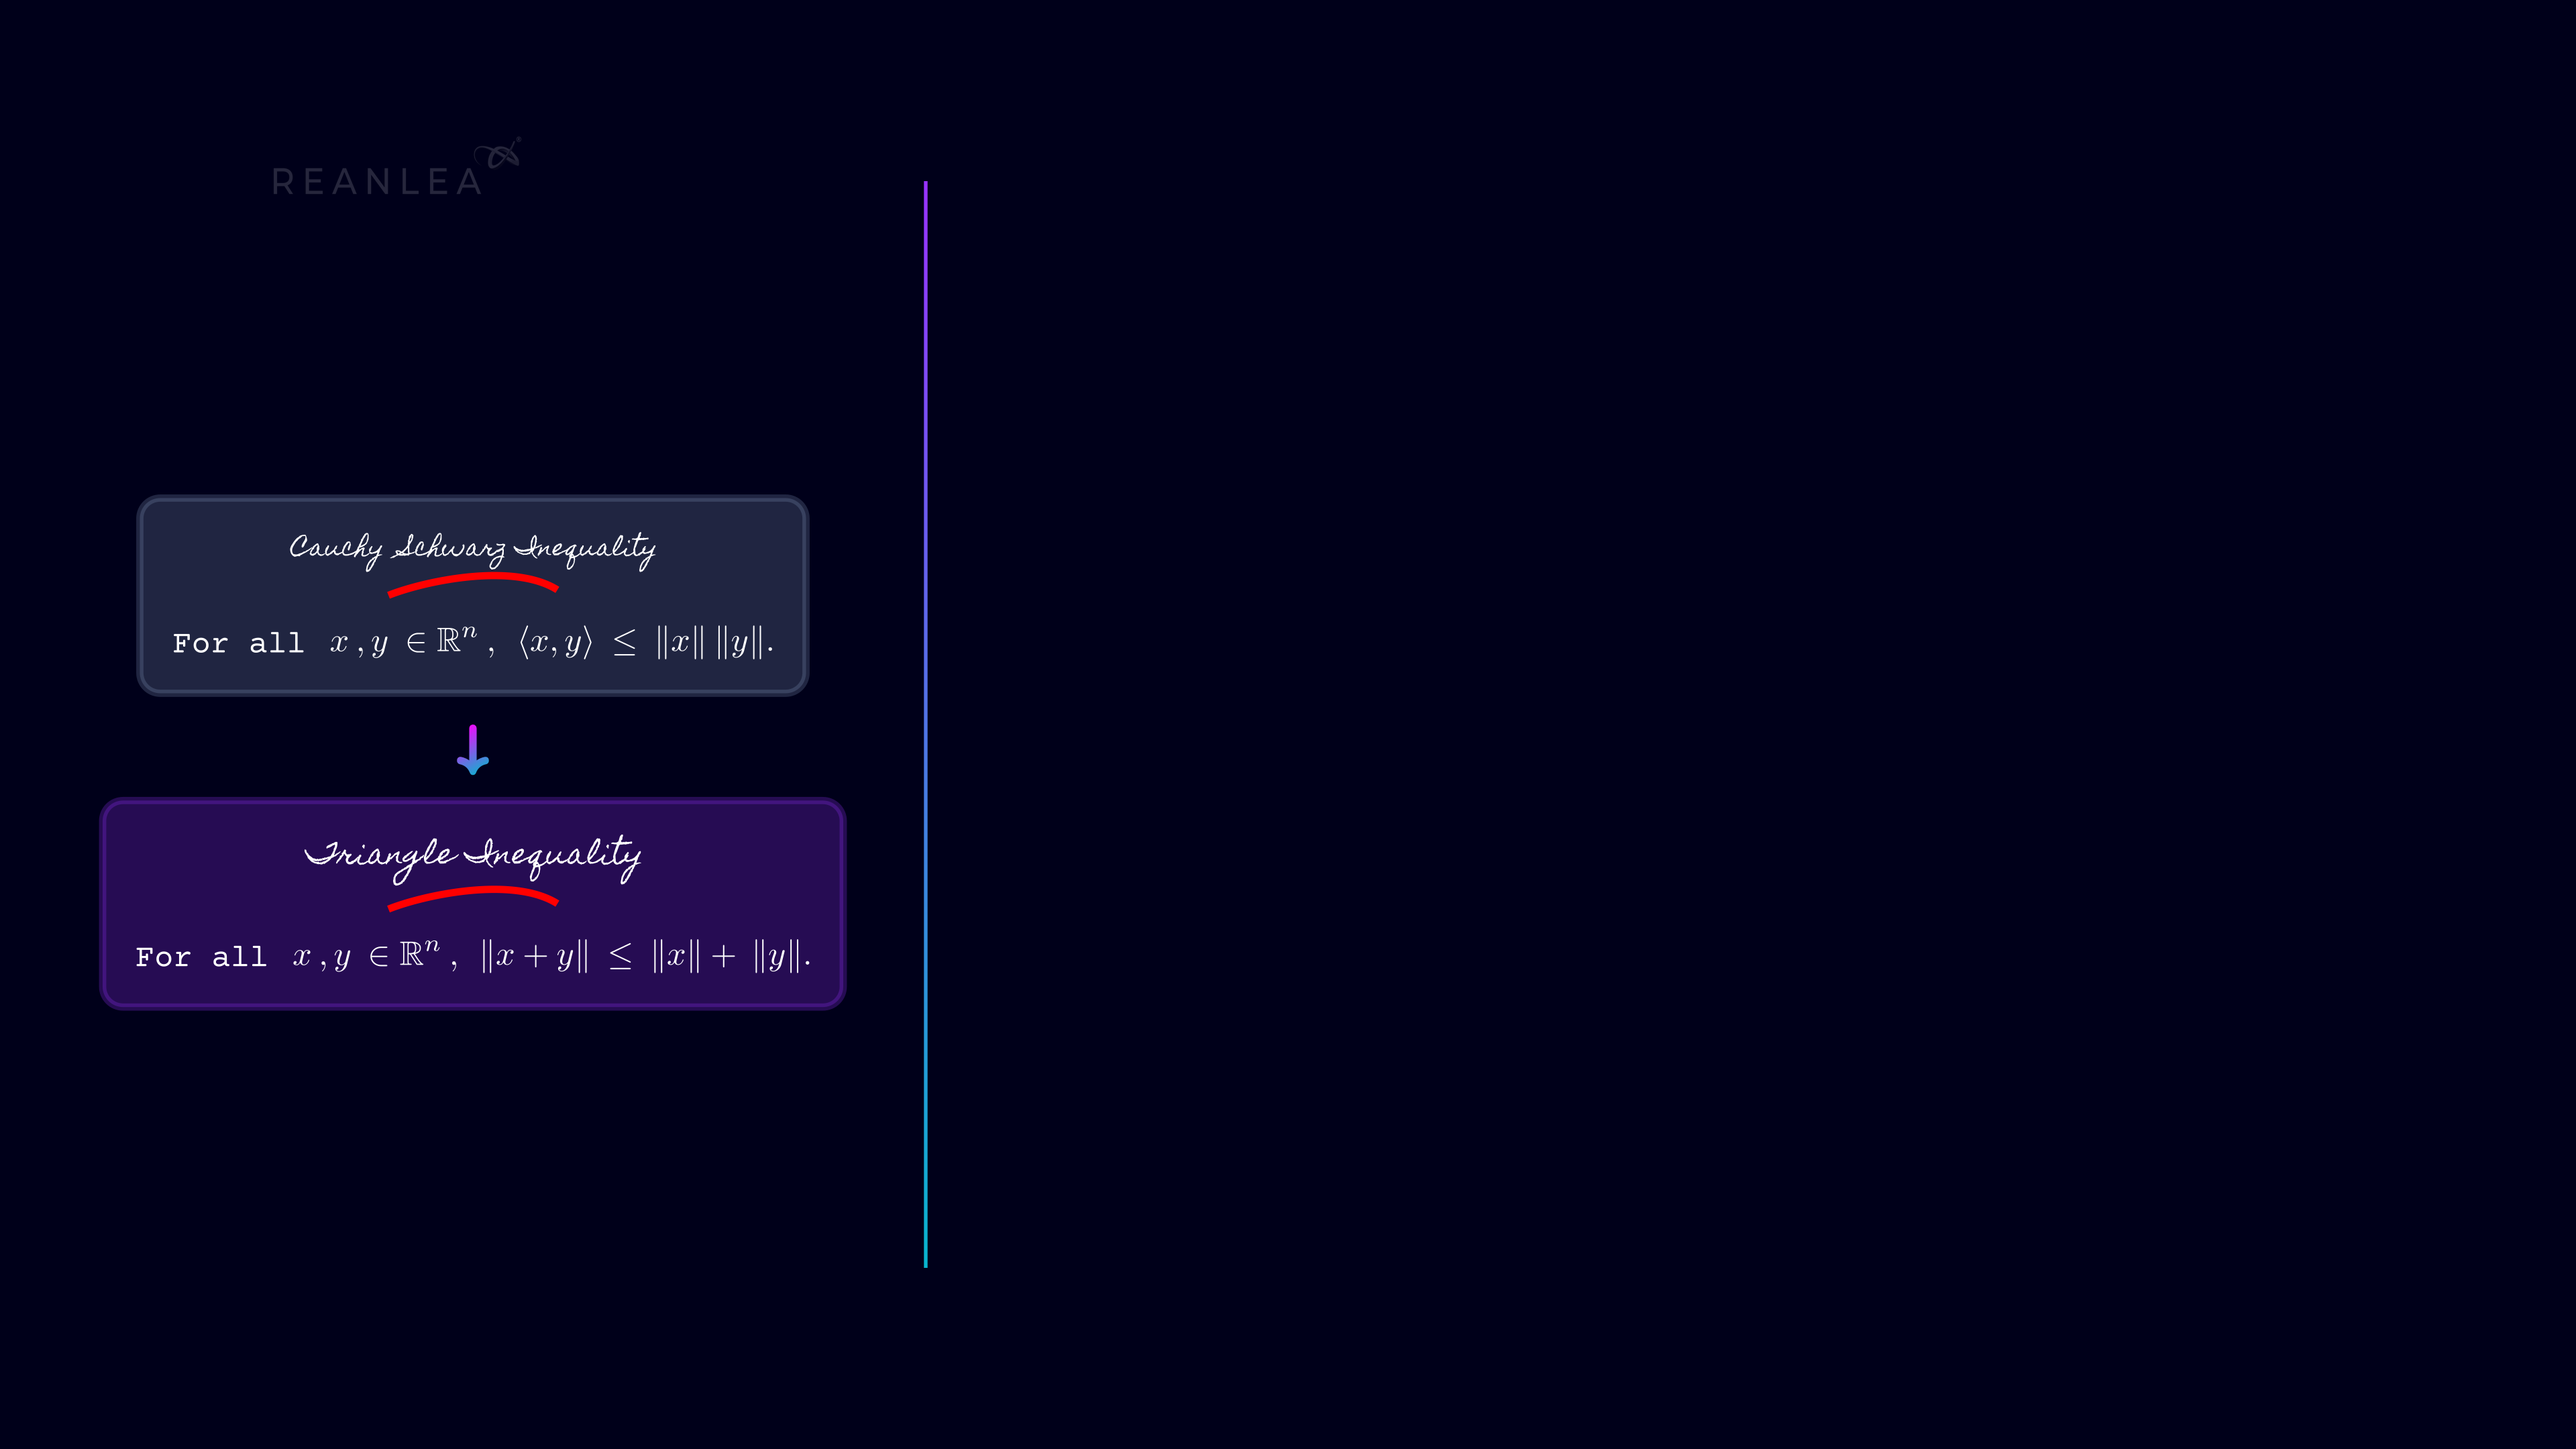
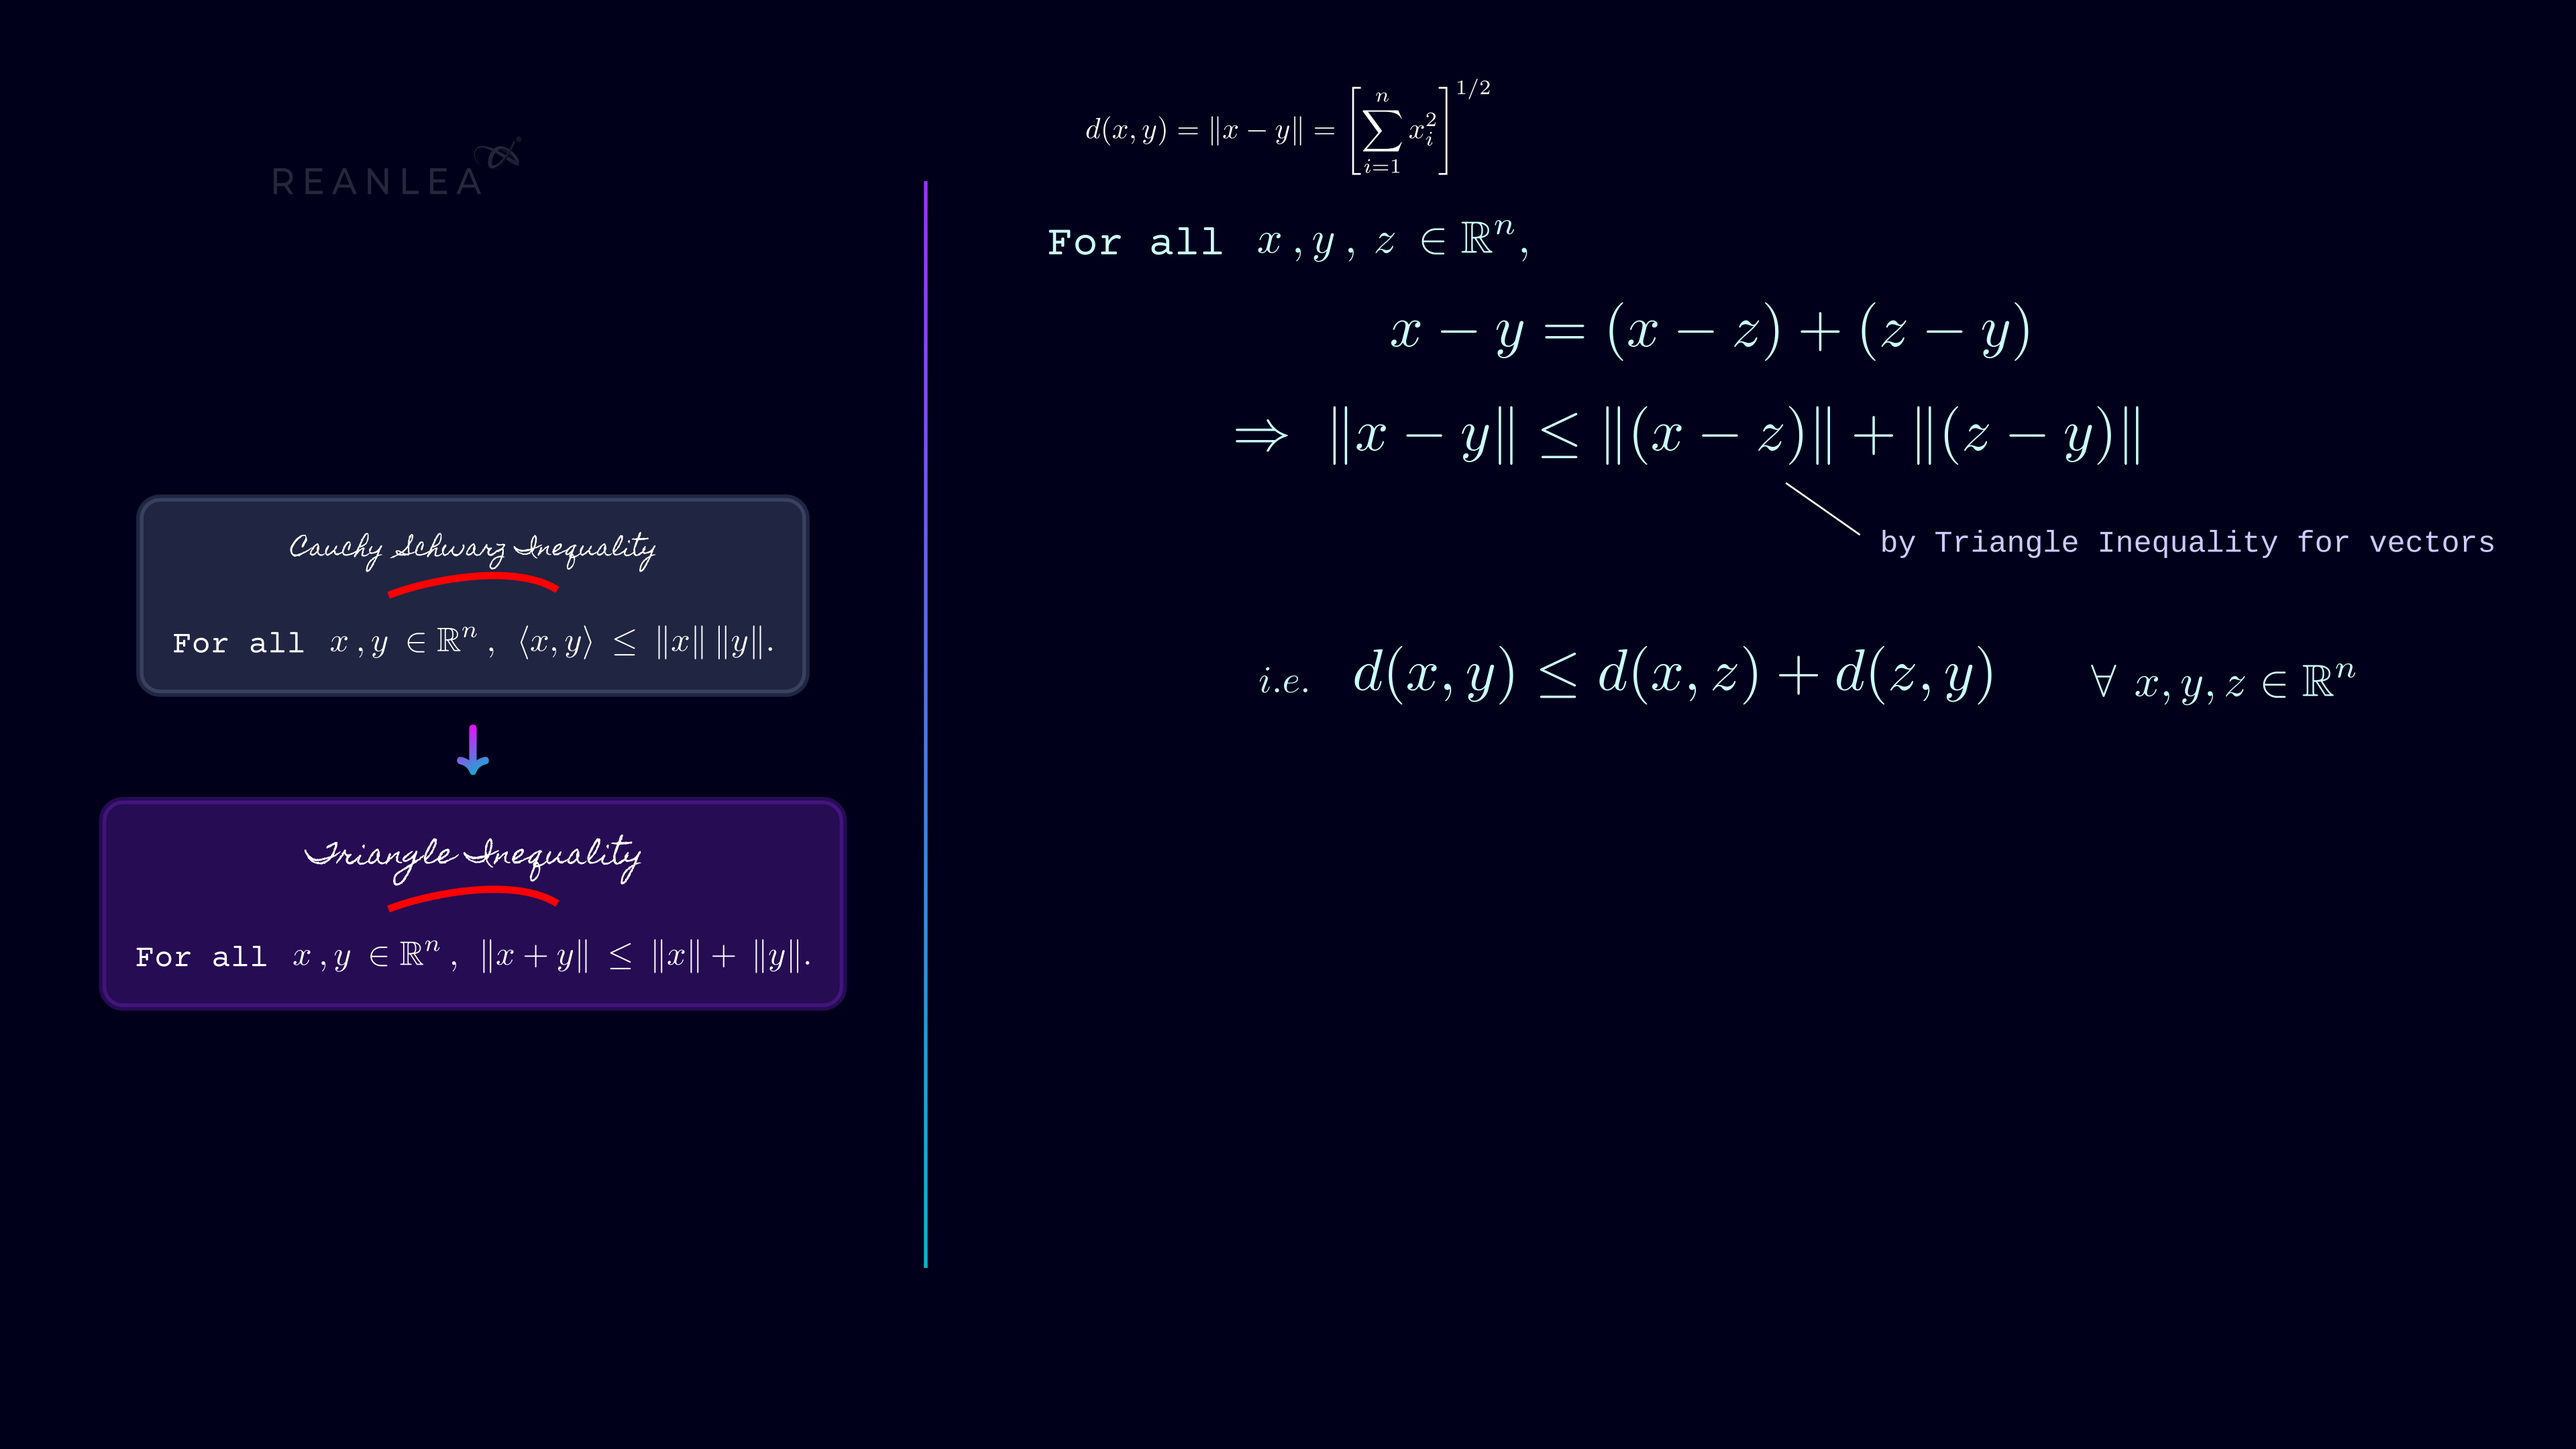
1

diff --git a/2022/Compact Matrix/anim2.py b/2022/Compact Matrix/anim2.py
@@ -7338,6 +7338,15 @@ class Scene6_1(Scene):
         self.play(
             FadeOut(grp_1_0)
         )
+        self.wait(2)
+
+        with RegisterFont("Courier Prime") as fonts:
+            txt_0 = Text("distance between two points in n-dimensional space satisfies" , font=fonts[0]).scale(.35).next_to(eqn_4_1,DOWN)
+        
+        self.play(
+            Create(txt_0)
+        )
+
 
 
         
